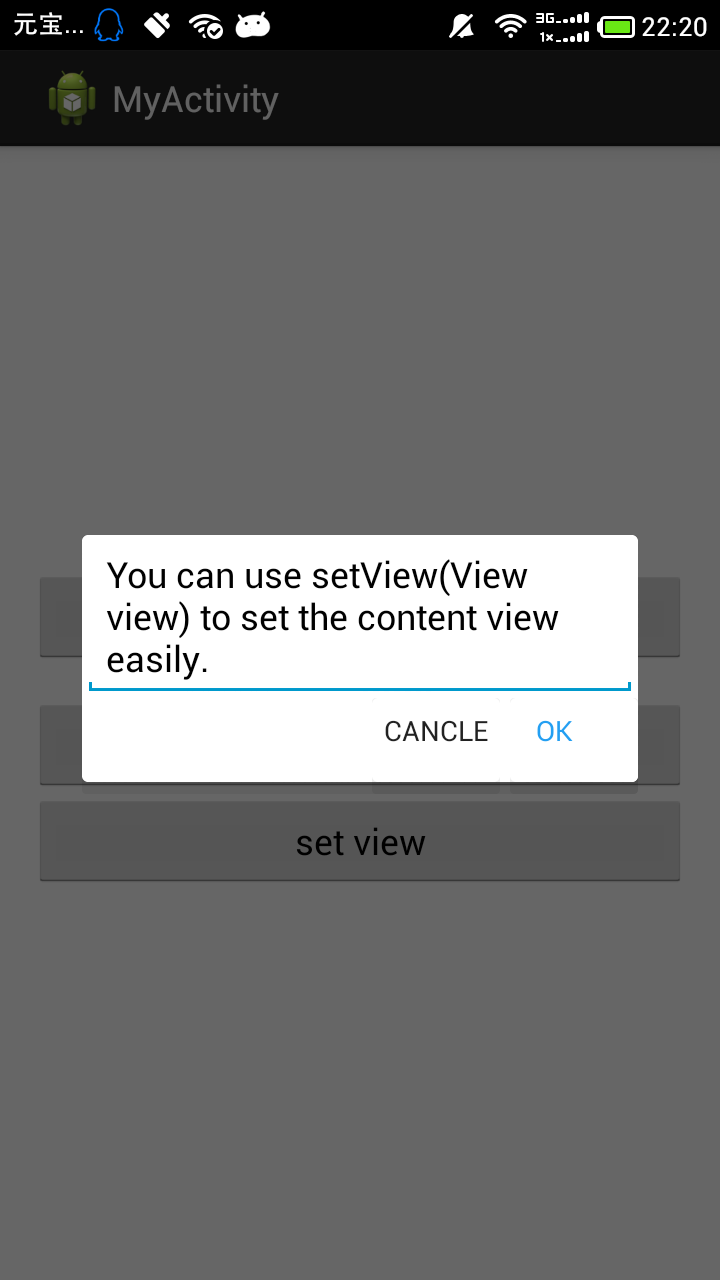
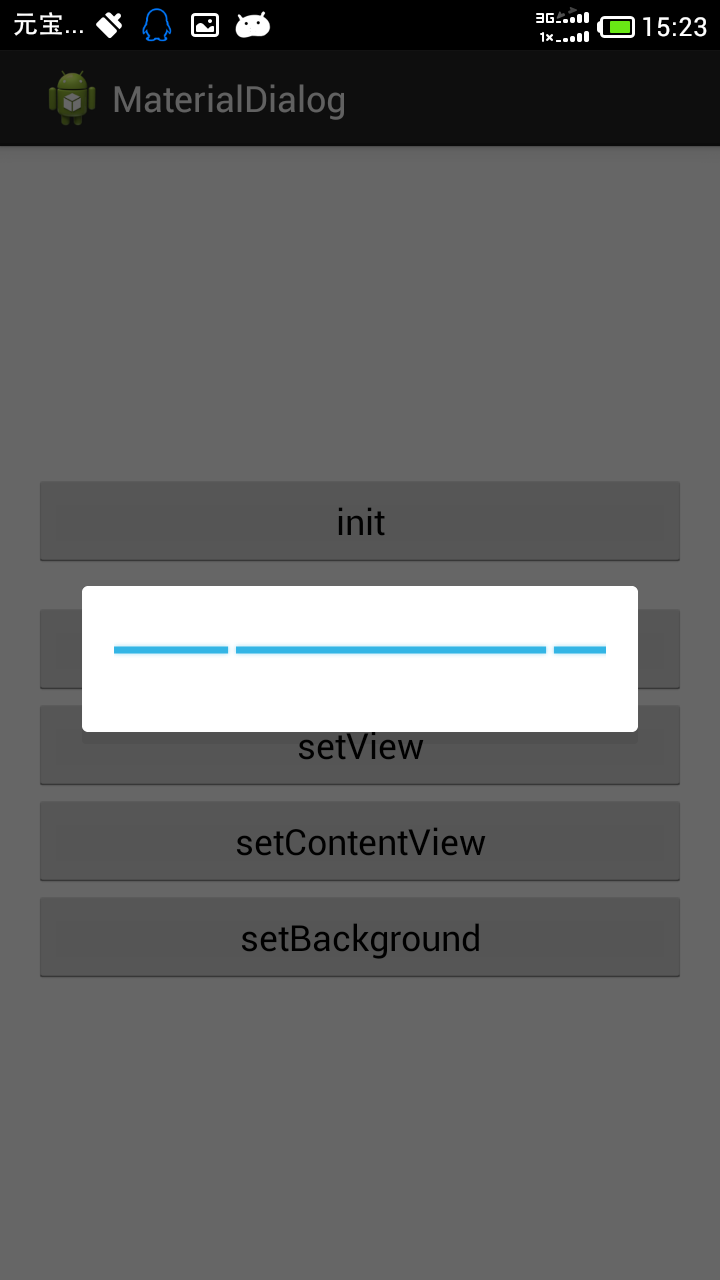
small fix

diff --git a/library/src/main/java/me/drakeet/materialdialog/MaterialDialog.java b/library/src/main/java/me/drakeet/materialdialog/MaterialDialog.java
@@ -40,9 +40,9 @@ public class MaterialDialog {
     private LinearLayout.LayoutParams mLayoutParams;
     private Button                    mNegativeButton;
     private boolean mHasShow = false;
-    private Drawable mBackgroundDrawable;
-    private int      mBackgroundResId;
-    private View     mMessageContentView;
+    private Drawable                          mBackgroundDrawable;
+    private int                               mBackgroundResId;
+    private View                              mMessageContentView;
     private DialogInterface.OnDismissListener mOnDismissListener;
 
     public MaterialDialog(Context context) {
@@ -123,9 +123,12 @@ public class MaterialDialog {
 
     public void setPositiveButton(String text, final View.OnClickListener listener) {
         mPositiveButton = new Button(mContext);
-        LinearLayout.LayoutParams params = new LinearLayout.LayoutParams(LinearLayout.LayoutParams.WRAP_CONTENT, LinearLayout.LayoutParams.WRAP_CONTENT);
+        LinearLayout.LayoutParams params = new LinearLayout.LayoutParams(
+                LinearLayout.LayoutParams.WRAP_CONTENT,
+                LinearLayout.LayoutParams.WRAP_CONTENT
+        );
         mPositiveButton.setLayoutParams(params);
-        mPositiveButton.setBackgroundResource(R.drawable.material_card_nos);
+        mPositiveButton.setBackgroundResource(R.drawable.button);
         mPositiveButton.setTextColor(Color.argb(255, 35, 159, 242));
         mPositiveButton.setText(text);
         mPositiveButton.setGravity(Gravity.CENTER);
@@ -139,18 +142,6 @@ public class MaterialDialog {
         mPositiveButton.setOnClickListener(listener);
     }
 
-    public void setCanceledOnTouchOutside(boolean cancel) {
-        this.mCancel = cancel;
-        if (mBuilder != null)
-            mBuilder.setCanceledOnTouchOutside(mCancel);
-    }
-
-    /**
-     * set negative button
-     *
-     * @param text     the name of button
-     * @param listener
-     */
     public void setNegativeButton(String text, final View.OnClickListener listener) {
         mNegativeButton = new Button(mContext);
         mLayoutParams = new LinearLayout.LayoutParams(
@@ -158,12 +149,18 @@ public class MaterialDialog {
                 LinearLayout.LayoutParams.WRAP_CONTENT
         );
         mNegativeButton.setLayoutParams(mLayoutParams);
-        mNegativeButton.setBackgroundResource(R.drawable.material_card_nos);
+        mNegativeButton.setBackgroundResource(R.drawable.button);
         mNegativeButton.setText(text);
         mNegativeButton.setTextColor(Color.argb(222, 0, 0, 0));
         mNegativeButton.setTextSize(14);
         mNegativeButton.setGravity(Gravity.CENTER);
         mNegativeButton.setOnClickListener(listener);
+    }
+
+    public void setCanceledOnTouchOutside(boolean cancel) {
+        this.mCancel = cancel;
+        if (mBuilder != null)
+            mBuilder.setCanceledOnTouchOutside(mCancel);
     }
 
     public void setOnDismissListener(DialogInterface.OnDismissListener onDismissListener) {
@@ -182,12 +179,12 @@ public class MaterialDialog {
             mAlertDialog = new AlertDialog.Builder(mContext).create();
             mAlertDialog.show();
             mAlertDialogWindow = mAlertDialog.getWindow();
-
             View contv = LayoutInflater.from(mContext).inflate(R.layout.layout_materialdialog, null);
             contv.setFocusable(true);
             contv.setFocusableInTouchMode(true);
+
             mAlertDialogWindow.setContentView(contv);
-           // mAlertDialogWindow.setContentView(R.layout.layout_materialdialog);
+            // mAlertDialogWindow.setContentView(R.layout.layout_materialdialog);
 
 //7
             WindowManager.LayoutParams params = new WindowManager.LayoutParams(
@@ -195,7 +192,8 @@ public class MaterialDialog {
                     WindowManager.LayoutParams.WRAP_CONTENT,
                     WindowManager.LayoutParams.TYPE_PHONE,
                     WindowManager.LayoutParams.FLAG_ALT_FOCUSABLE_IM,
-                    PixelFormat.TRANSLUCENT);
+                    PixelFormat.TRANSLUCENT
+            );
 
             mTitleView = (TextView) mAlertDialogWindow.findViewById(R.id.title);
             mMessageView = (TextView) mAlertDialogWindow.findViewById(R.id.message);
@@ -226,6 +224,7 @@ public class MaterialDialog {
                     mNegativeButton.setLayoutParams(mLayoutParams);
                     mButtonLayout.addView(mNegativeButton, 1);
                 } else {
+                    //Toast.makeText(mContext, "hdafd", Toast.LENGTH_SHORT).show();
                     mNegativeButton.setLayoutParams(mLayoutParams);
                     mButtonLayout.addView(mNegativeButton);
                 }
@@ -311,32 +310,45 @@ public class MaterialDialog {
             }
         }
 
-        public void setView(final View view) {
+        public void setView(View view) {
             LinearLayout l = (LinearLayout) mAlertDialogWindow.findViewById(R.id.contentView);
             l.removeAllViews();
             ViewGroup.LayoutParams layoutParams = new ViewGroup.LayoutParams(ViewGroup.LayoutParams.MATCH_PARENT, ViewGroup.LayoutParams.WRAP_CONTENT);
             view.setLayoutParams(layoutParams);
-            view.setFocusable(true);
-            view.requestFocus();
-            view.setFocusableInTouchMode(true);
 
-            l.addView(view);
 
             view.setOnFocusChangeListener(
                     new View.OnFocusChangeListener() {
                         @Override
                         public void onFocusChange(View v, boolean hasFocus) {
-                            Toast.makeText(mContext, "" + hasFocus, Toast.LENGTH_SHORT).show();
+                            System.out.println("-->" + hasFocus);
                             mAlertDialogWindow.setSoftInputMode(WindowManager.LayoutParams.SOFT_INPUT_STATE_ALWAYS_VISIBLE);
                             // show imm
-                            InputMethodManager imm = (InputMethodManager)mContext.getSystemService(Context.INPUT_METHOD_SERVICE);
+                            InputMethodManager imm = (InputMethodManager) mContext.getSystemService(Context.INPUT_METHOD_SERVICE);
                             imm.toggleSoftInput(
                                     InputMethodManager.SHOW_FORCED,
                                     InputMethodManager.HIDE_IMPLICIT_ONLY
                             );
+
                         }
                     }
             );
+
+            l.addView(view);
+
+            if (view instanceof ViewGroup) {
+
+                ViewGroup viewGroup = (ViewGroup) view;
+
+                for (int i = 0; i < viewGroup.getChildCount(); i++) {
+                    if (viewGroup.getChildAt(i) instanceof EditText) {
+                        EditText editText = (EditText) viewGroup.getChildAt(i);
+                        editText.setFocusable(true);
+                        editText.requestFocus();
+                        editText.setFocusableInTouchMode(true);
+                    }
+                }
+            }
 
 //            view.post(new Runnable() {
 //                          public void run() {

diff --git a/demo/src/main/java/me/drakeet/mddemo/MyActivity.java b/demo/src/main/java/me/drakeet/mddemo/MyActivity.java
@@ -1,24 +1,19 @@
 package me.drakeet.mddemo;
 
+import android.content.Context;
 import android.content.DialogInterface;
 import android.content.res.Resources;
 import android.graphics.Bitmap;
 import android.graphics.BitmapFactory;
 import android.graphics.drawable.BitmapDrawable;
-import android.graphics.drawable.Drawable;
 import android.support.v7.app.ActionBarActivity;
 import android.os.Bundle;
 import android.view.LayoutInflater;
 import android.view.View;
+import android.view.inputmethod.InputMethodManager;
 import android.widget.ArrayAdapter;
-import android.widget.EditText;
 import android.widget.ListView;
-import android.widget.Switch;
-import android.widget.TextView;
 import android.widget.Toast;
-
-import java.util.ArrayList;
-import java.util.List;
 
 import me.drakeet.materialdialog.MaterialDialog;
 
@@ -92,9 +87,9 @@ public class MyActivity extends ActionBarActivity {
     public void setView(View v) {
         switch (v.getId()) {
             case R.id.button_set_view: {
+                mMaterialDialog = new MaterialDialog(this);
                 if (mMaterialDialog != null) {
-                    EditText contentView = new EditText(this);
-                    View view = LayoutInflater.from(this).inflate(R.layout.edittext_item, null);
+                    View view = LayoutInflater.from(this).inflate(R.layout.progressbar_item, null);
 
                     mMaterialDialog.setView(view);
                     mMaterialDialog.show();
@@ -169,5 +164,14 @@ public class MyActivity extends ActionBarActivity {
 
             }
         }
+    }
+
+    public void buttonPress(View view) {
+        // show imm
+        InputMethodManager imm = (InputMethodManager) this.getSystemService(Context.INPUT_METHOD_SERVICE);
+        imm.toggleSoftInput(
+                InputMethodManager.SHOW_FORCED,
+                InputMethodManager.HIDE_IMPLICIT_ONLY
+        );
     }
 }

diff --git a/README.md b/README.md
@@ -87,7 +87,7 @@ Add `setCanceledOnTouchOutside()` // You should set it before `show()`, otherwis
 Add `setContetnView()`
 
 ## BUG
-Can not show soft keyboard automatically when focus is on an EditText.
+Can not show soft keyboard automatically when focus is on an EditText. QAQ
 
 [demo apk](/demo-release.apk)
 
